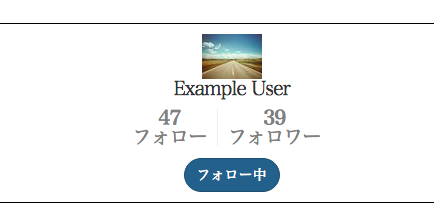
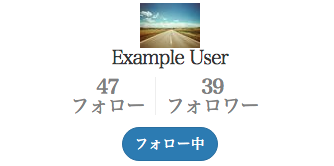
finish privacy

diff --git a/app/assets/stylesheets/custom.scss b/app/assets/stylesheets/custom.scss
@@ -912,8 +912,15 @@ footer {
 
 .help-activation {
     border: 1px solid black;
-    width: 100%;
+    width: 80%;
     object-fit: cover;
+}
+.check-privacy {
+  display: inline-block;
+}
+.privacy {
+  width: 80%;
+  object-fit: cover;
 }
 
 

diff --git a/config/routes.rb b/config/routes.rb
@@ -8,11 +8,16 @@ Rails.application.routes.draw do
   get '/help', to: 'static_pages#help'
   get '/about', to: 'static_pages#about'
   get '/contact', to: 'static_pages#contact'
-    post '/inquiry', to: 'static_pages#create' 
+  post '/inquiry', to: 'static_pages#create' 
+  get '/privacy', to: 'static_pages#privacy'  
+  get '/producer', to: 'static_pages#producer'
+  get '/retailing', to: 'static_pages#retailing'
+  
   get '/signup', to: 'users#new'
   get    '/login',   to: 'sessions#new'
   post   '/login',   to: 'sessions#create'
   delete '/logout',  to: 'sessions#destroy'
+  
   
   resources :users do
     member do

diff --git a/db/schema.rb b/db/schema.rb
@@ -10,7 +10,7 @@
 #
 # It's strongly recommended that you check this file into your version control system.
 
-ActiveRecord::Schema.define(version: 20180921071905) do
+ActiveRecord::Schema.define(version: 20180922072042) do
 
   create_table "blocks", force: :cascade do |t|
     t.date "date"
@@ -107,6 +107,7 @@ ActiveRecord::Schema.define(version: 20180921071905) do
     t.string "activation_digest"
     t.boolean "activated", default: false
     t.datetime "activated_at"
+    t.boolean "accepted", default: false, null: false
     t.index ["email"], name: "index_users_on_email", unique: true
   end
 

diff --git a/app/controllers/users_controller.rb b/app/controllers/users_controller.rb
@@ -74,7 +74,7 @@ class UsersController < ApplicationController
 
     def user_params
       params.require(:user).permit(:name, :email, :password,
-                                   :password_confirmation, :thumbnail, :introduction)
+                                   :password_confirmation, :thumbnail, :introduction, :accepted)
     end
   
     

diff --git a/app/models/user.rb b/app/models/user.rb
@@ -23,7 +23,7 @@ class User < ApplicationRecord
     has_secure_password
     validates :password, presence: true, length: {minimum: 6},
                          allow_nil: true
-    
+    validates :accepted, presence: {message: 'を入力してください'}
 
    # 渡された文字列のハッシュ値を返す
   def User.digest(string)

diff --git a/app/controllers/static_pages_controller.rb b/app/controllers/static_pages_controller.rb
@@ -1,6 +1,15 @@
 class StaticPagesController < ApplicationController
+  
+  def producer
+  end
+  
+　def retailing
+　end
+　
+  def privacy
+  end
+  
   def home
-
   end
 
   def help

diff --git a/db/migrate/20180922072042_add_accepted_to_users.rb b/db/migrate/20180922072042_add_accepted_to_users.rb
@@ -1,0 +1,5 @@
+class AddAcceptedToUsers < ActiveRecord::Migration[5.1]
+  def change
+    add_column :users, :accepted, :boolean, default: false, null: false
+  end
+end
